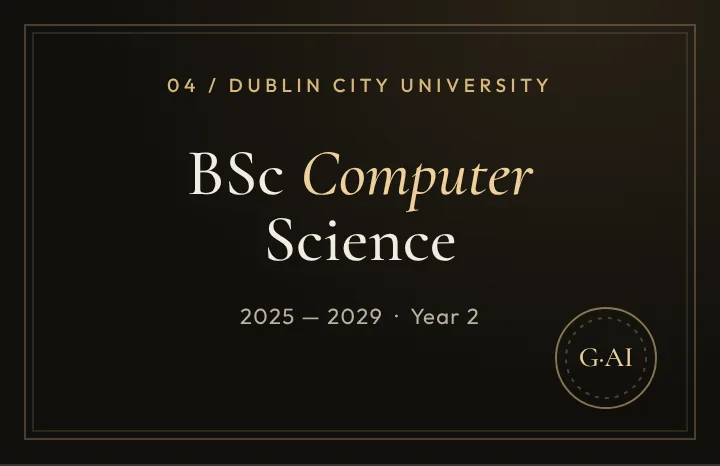
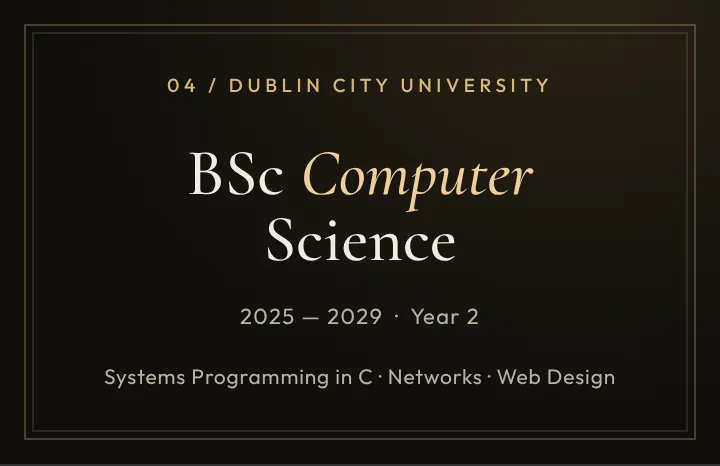
Readability pass, calmer ASCII background, certificate as one line

diff --git a/styles.css b/styles.css
@@ -541,3 +541,29 @@ a.hero-note:hover p, a.hero-note:focus-visible p { color: var(--brass-light); }
   .results-row { grid-template-columns: 6.5rem 1fr 4rem; gap: 0.6rem; font-size: 0.8rem; }
 }
 .footer-inner { flex-wrap: wrap; padding-block: 1rem; }
+
+/* ---------------------------------------------------------------------------
+   Readability pass: no label below 12px, calmer letter-spacing, larger small
+   print, and a darker wash behind the hero text so the ASCII stays texture.
+   --------------------------------------------------------------------------- */
+#ascii-root::after { background: linear-gradient(90deg, rgba(16, 15, 12, 0.6) 0%, rgba(16, 15, 12, 0.3) 50%, rgba(16, 15, 12, 0.08) 100%); }
+
+.header-context, .sm-panel-number, .sm-socials-title, .eyebrow, .hero-meta, .button, .text-link,
+.note-index, .hero-note .note-index, .scroll-cue, .section-index, .facts dt, .art-topline, .art-bottomline,
+.project-state, .project-number, .tag-list li, .skill-index, .experience-type, .contact-kicker,
+.contact-methods small, .back-to-top, .skill-evidence li > span, .education-record h4,
+.hackathon-projects .project-state, .discipline-ribbon span {
+  font-size: 0.75rem;
+  letter-spacing: 0.1em;
+}
+.footer-inner p, .footer-build { font-size: 0.85rem; }
+.project-capture figcaption { font-size: 0.85rem; line-height: 1.6; }
+.demo-disclosure summary, .evidence-disclosure summary { font-size: 0.88rem; }
+.demo-disclosure p { font-size: 0.82rem; }
+.evidence-disclosure p { font-size: 0.9rem !important; line-height: 1.7; }
+.project-description, .hackathon-projects p:not(.project-state) { font-size: 0.95rem; }
+
+.cert-line { margin: 1.5rem 0 0 calc(24% + 2rem); padding-top: 1.2rem; border-top: 1px solid var(--line); color: var(--muted); font-size: 0.92rem; }
+.cert-line strong { color: var(--ink); font-weight: 500; }
+.cert-line a { color: var(--brass-light); }
+@media (max-width: 1050px) { .cert-line { margin-left: 0; } }

diff --git a/index.html b/index.html
@@ -278,7 +278,7 @@
           <div><h2 id="education-title">A foundation.<br><em>And room to grow.</em></h2><p class="heading-intro">Dublin City University · expected graduation 2029.</p></div>
         </div>
                 <article class="education-record"><p class="project-state">DUBLIN CITY UNIVERSITY</p><h3>BSc Computer Science <span>— Year 2</span></h3><p><time datetime="2025-09">Sep 2025</time> – Expected <time datetime="2029">2029</time></p><h4>Relevant study &amp; workshops</h4><ul class="module-list"><li>Systems Programming in C</li><li>Web Design</li><li>Networks</li><li>Linux · Redbrick workshops</li></ul><a class="text-link" href="https://www.dcu.ie/courses/undergraduate/school-computing/computer-science" target="_blank" rel="noopener noreferrer">DCU programme information ↗</a></article>
-        <article class="certification" id="certifications"><div class="certification-mark" aria-hidden="true">G<span>AI</span></div><div><p class="project-state">COMPLETED CERTIFICATION</p><h3>Google AI Essentials</h3><p>Google · Coursera · Issued <time datetime="2026-10-20">20 Oct 2026</time></p><p>AI productivity, prompting and responsible use.</p></div><a class="text-link" href="https://coursera.org/verify/specialization/O750FQTM40TD" target="_blank" rel="noopener noreferrer">Verify credential ↗</a></article>
+        <p class="cert-line" id="certifications">Also completed: <strong>Google AI Essentials</strong> · Google, via Coursera · <time datetime="2026-10-20">Oct 2026</time> · <a href="https://coursera.org/verify/specialization/O750FQTM40TD" target="_blank" rel="noopener noreferrer">Verify ↗</a></p>
       </div>
     </section>
 

diff --git a/main.js b/main.js
@@ -452,18 +452,18 @@
   function setupASCII() {
     if (!window.startGradientASCII) return;
     window.startGradientASCII(document.querySelector('#ascii-root'), {
-      // React Bits GradientASCII defaults, in the site's warm palette:
+      // React Bits GradientASCII, toned down to a background texture, in the site's warm palette:
       // edge of the shadow -> brightest point (brass, cream, pale gold, deep brass).
       colors: ['#5e4626', '#e9d8b4', '#d9b878', '#a8803f'],
       shape: 'horizon',
       characters: ' =+xX0S8#@',
       cellSize: 18,
-      density: 0.8,
-      glyphOpacity: 0.85,
-      gradientOpacity: 0.5,
-      glow: 0.2,
+      density: 0.65,
+      glyphOpacity: 0.55,
+      gradientOpacity: 0.35,
+      glow: 0.08,
       depthOfField: 0,
-      flicker: 0.2,
+      flicker: 0.08,
       softness: 0.5,
       scale: 1,
       flow: 0.5,
